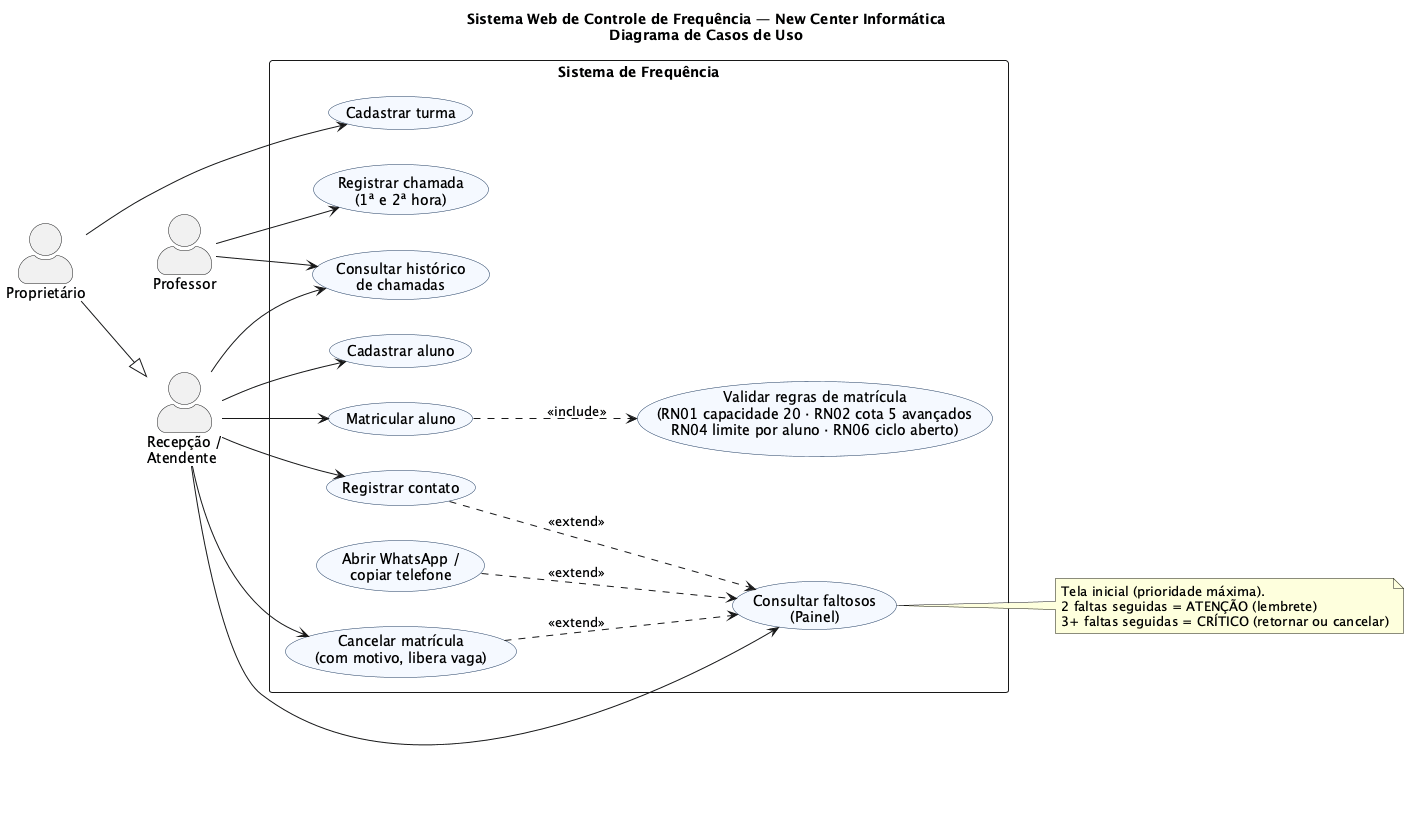
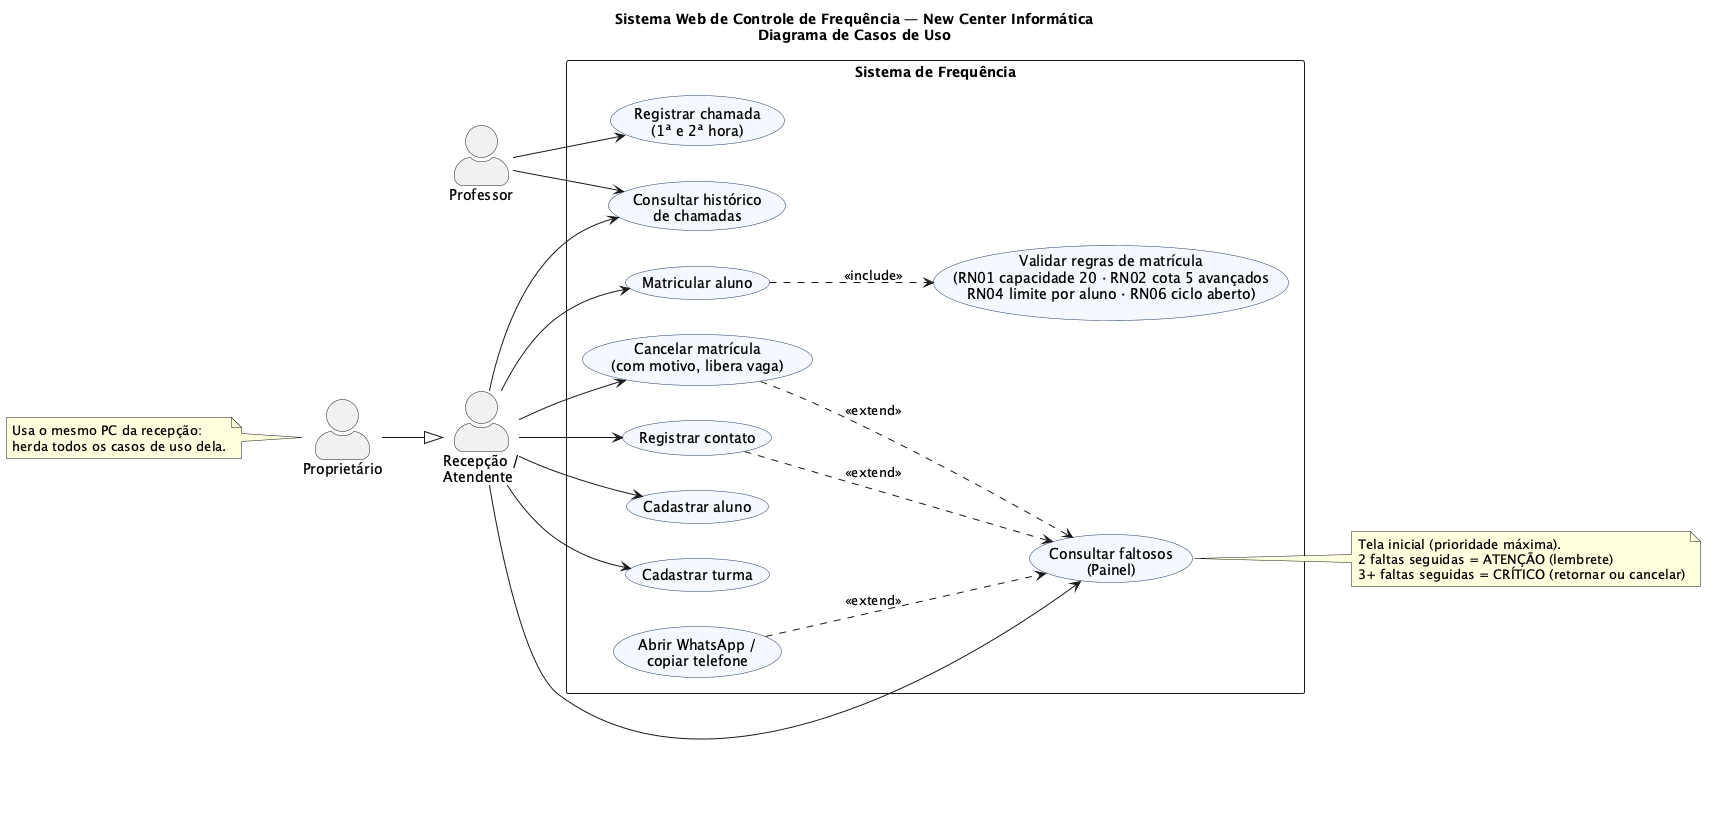
feat: chamada comeca com todos presentes; recepcao cadastra turma (decisoes da equipe)

diff --git a/src/test/java/br/unicatolica/ace/frequencia/domain/model/MatriculaEAulaTest.java b/src/test/java/br/unicatolica/ace/frequencia/domain/model/MatriculaEAulaTest.java
@@ -92,6 +92,19 @@ class MatriculaEAulaTest {
         }
 
         @Test
+        @DisplayName("chamada nova começa com todos PRESENTE; o professor marca só as faltas")
+        void comecaComTodosPresentes() {
+            Turma turma = Cenario.segunda09();
+            Cenario.preencher(turma, BASICO, 3);
+            Aula aula = Aula.abrir(turma, SEGUNDA, HOJE);
+            assertTrue(aula.getRegistros().stream().allMatch(r -> r.resultado() == ResultadoAula.PRESENTE));
+
+            Matricula faltou = turma.matriculasAtivas().get(1);
+            aula.registrar(faltou, Presenca.FALTA, Presenca.FALTA, AGORA);
+            assertEquals(1L, aula.getRegistros().stream().filter(RegistroFrequencia::isFalta).count());
+        }
+
+        @Test
         @DisplayName("todos presentes, depois correção de um aluno guardando atualizadoEm")
         void registrarECorrigir() {
             Turma turma = Cenario.segunda09();

diff --git a/src/main/java/br/unicatolica/ace/frequencia/domain/model/Aula.java b/src/main/java/br/unicatolica/ace/frequencia/domain/model/Aula.java
@@ -19,10 +19,10 @@ import java.util.Optional;
 public class Aula {
 
     /**
-     * Marcação inicial de uma chamada nova: o professor marca quem está presente
-     * (ou usa "todos presentes"). Decisão de interface registrada no DIARIO.md.
+     * Marcação inicial de uma chamada nova: todos começam PRESENTE e o professor marca só as faltas
+     * (decisão da equipe em 26/11, registrada no DIARIO.md).
      */
-    static final Presenca MARCACAO_INICIAL = Presenca.FALTA;
+    static final Presenca MARCACAO_INICIAL = Presenca.PRESENTE;
 
     private final Long id;
     private final Turma turma;

diff --git a/DIARIO.md b/DIARIO.md
@@ -15,9 +15,11 @@ Registro curto de cada sessão: o que foi feito, decisões e dificuldades. Serve
 
 **Decisões:**
 - O domínio **não depende de Spring nem de JPA**: compila e é testado sozinho. A persistência (sprint 1) vai usar entidades JPA separadas na `infrastructure`, mapeadas para o domínio pelos adaptadores.
-- Uma chamada nova começa com todos em FALTA: o professor marca quem veio ou usa "todos presentes". *(Confirmar com a equipe/New Center.)*
-- O ator Proprietário herda as permissões da Recepção e também cadastra turmas.
+- Uma chamada nova começa com **todos PRESENTE** e o professor marca só as faltas. A primeira versão começava com todos em FALTA; a equipe (Marcos Felipe) preferiu o contrário, porque é mais rápido no dia a dia.
+- A **Recepção também cadastra turmas**, já que as matrículas são feitas lá. O Proprietário usa o mesmo PC da recepção e por isso herda todos os casos de uso dela (generalização no diagrama).
 - As regras são avaliadas na ordem ciclo → limite por aluno → capacidade → cota de avançados. A primeira violação interrompe a matrícula com uma mensagem pronta para a recepção.
 
 **Dificuldades:**
 - Parte do código foi escrita com apoio de IA (Claude) num ambiente sem acesso ao Maven Central nem ao PlantUML. Lá, o domínio e os testes foram conferidos só com o compilador Java, e o build Maven e a geração dos PNGs ficaram para o MacBook.
+- No MacBook foi preciso instalar o ambiente do zero (Homebrew, Java 21, Maven, PlantUML). O Maven veio com um Java 27 como dependência e passou a usá-lo no lugar do 21; resolvemos fixando o JAVA_HOME no Java 21.
+- Repositório publicado no GitHub (público): https://github.com/samoksss/ace-frequencia. Os testes rodaram no Mac: 39 testes, BUILD SUCCESS.
